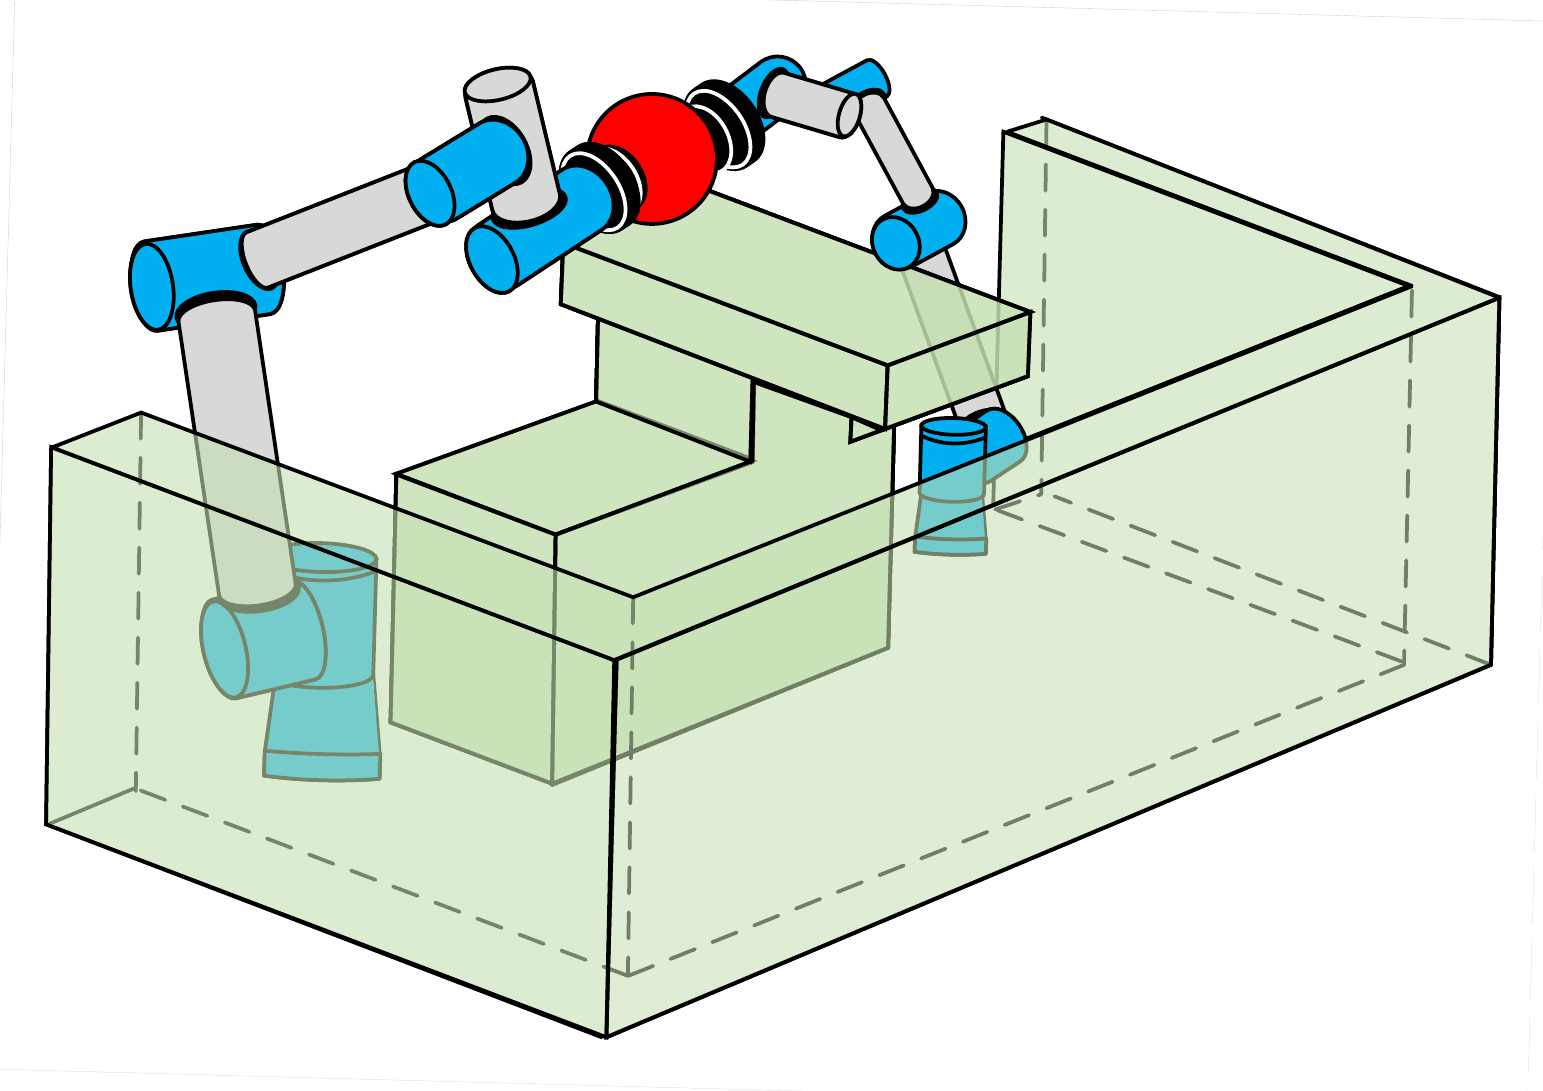
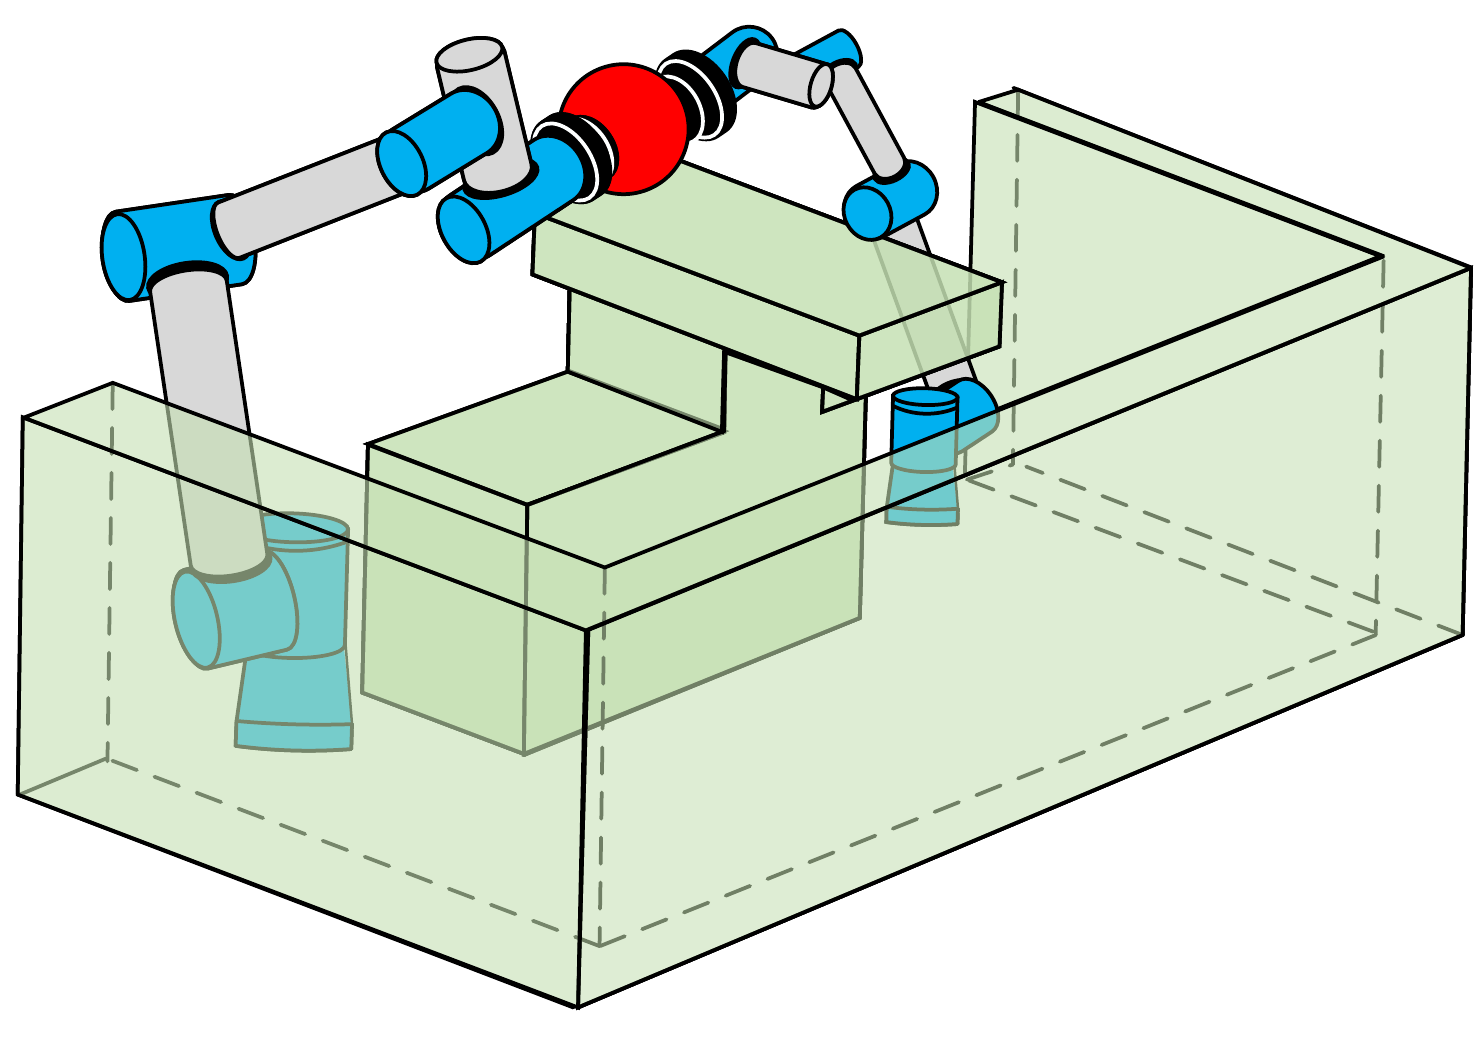
docs: sync figures from current manuscript and response letter

diff --git a/scripts/sync_paper_images.py b/scripts/sync_paper_images.py
@@ -40,7 +40,7 @@ def render_pdf(source: Path, target: Path, pdftoppm: str) -> None:
     with tempfile.TemporaryDirectory(prefix="paper-figure-") as directory:
         prefix = Path(directory) / "page"
         subprocess.run(
-            [pdftoppm, "-f", "1", "-singlefile", "-png", "-r", "180", str(source), str(prefix)],
+            [pdftoppm, "-f", "1", "-singlefile", "-cropbox", "-png", "-r", "180", str(source), str(prefix)],
             check=True,
             stdout=subprocess.DEVNULL,
         )
@@ -75,33 +75,44 @@ def make_preview(source: Path, target: Path, pdftoppm: str | None) -> None:
             image.save(target)
 
 
-def synchronize(source_dir: Path, force: bool) -> int:
+def synchronize(source_dir: Path, force: bool, response_dir: Path | None = None) -> int:
     entries = json.loads(MANIFEST.read_text(encoding="utf-8"))
     pdftoppm = shutil.which("pdftoppm")
     changed = 0
+    response_skipped = False
     for entry in entries:
-        source = source_for(source_dir, entry["latex_reference"])
+        root = response_dir if entry.get("source_root") == "response" else source_dir
+        if root is None:
+            response_skipped = True
+            continue
+        source = source_for(root, entry["latex_reference"])
         target = REPO.joinpath(*entry["repository_path"].split("/"))
         if not force and target.exists() and source.stat().st_mtime_ns <= target.stat().st_mtime_ns:
             continue
         make_preview(source, target, pdftoppm)
         changed += 1
         print(f"Updated {entry['repository_path']} from {source}")
+    if response_skipped:
+        print("Response-letter images skipped: pass --response-dir to update them.")
     return changed
 
 
 def main() -> None:
     parser = argparse.ArgumentParser(description=__doc__)
     parser.add_argument("--source-dir", type=Path, required=True, help="Directory containing the manuscript's original images")
+    parser.add_argument("--response-dir", type=Path, help="Response template directory, for figures that differ from the manuscript")
     parser.add_argument("--watch", action="store_true", help="Keep local previews in sync while this command runs")
     parser.add_argument("--force", action="store_true", help="Rebuild every preview, even when the source timestamp is older")
     args = parser.parse_args()
     if not args.source_dir.is_dir():
         parser.error(f"Source directory does not exist: {args.source_dir}")
 
+    if args.response_dir is not None and not args.response_dir.is_dir():
+        parser.error(f"Response directory does not exist: {args.response_dir}")
+
     try:
         while True:
-            changed = synchronize(args.source_dir, args.force)
+            changed = synchronize(args.source_dir, args.force, args.response_dir)
             print(f"Synchronized {changed} image(s).")
             if not args.watch:
                 break

diff --git a/README.md b/README.md
@@ -69,7 +69,7 @@ This work presents an integrated framework for dual-arm manipulation in narrow s
 #### Adaptive impedance and desired-force design
 
 <p align="center">
-  <img src="assets/paper/impedance-adaptation.jpg" alt="Adaptive force design 1" width="32%">
+  <img src="assets/paper/impedance-adaptation.png" alt="Adaptive force design 1" width="32%">
   <img src="assets/paper/Visio-Desired_Force_why_v2_a.png" alt="Adaptive force design 2" width="32%">
   <img src="assets/paper/Visio-Desired_Force_why_v3_b.png" alt="Adaptive force design 3" width="32%">
 </p>
@@ -124,6 +124,17 @@ This work presents an integrated framework for dual-arm manipulation in narrow s
   <img src="assets/paper/FRpic/ball/4.jpg" alt="Ball experiment frame 4" width="15.7%">
   <img src="assets/paper/FRpic/ball/5.jpg" alt="Ball experiment frame 5" width="15.7%">
   <img src="assets/paper/FRpic/ball/6.jpg" alt="Ball experiment frame 6" width="15.7%">
+</p>
+
+### Ball sequence used in the response letter
+
+<p align="center">
+  <img src="assets/response/FRpic/ball/1.jpg" alt="Response-letter ball experiment frame 1" width="15.7%">
+  <img src="assets/response/FRpic/ball/2.jpg" alt="Response-letter ball experiment frame 2" width="15.7%">
+  <img src="assets/response/FRpic/ball/3.jpg" alt="Response-letter ball experiment frame 3" width="15.7%">
+  <img src="assets/response/FRpic/ball/4.jpg" alt="Response-letter ball experiment frame 4" width="15.7%">
+  <img src="assets/response/FRpic/ball/5.jpg" alt="Response-letter ball experiment frame 5" width="15.7%">
+  <img src="assets/response/FRpic/ball/6.jpg" alt="Response-letter ball experiment frame 6" width="15.7%">
 </p>
 
 ### Box
